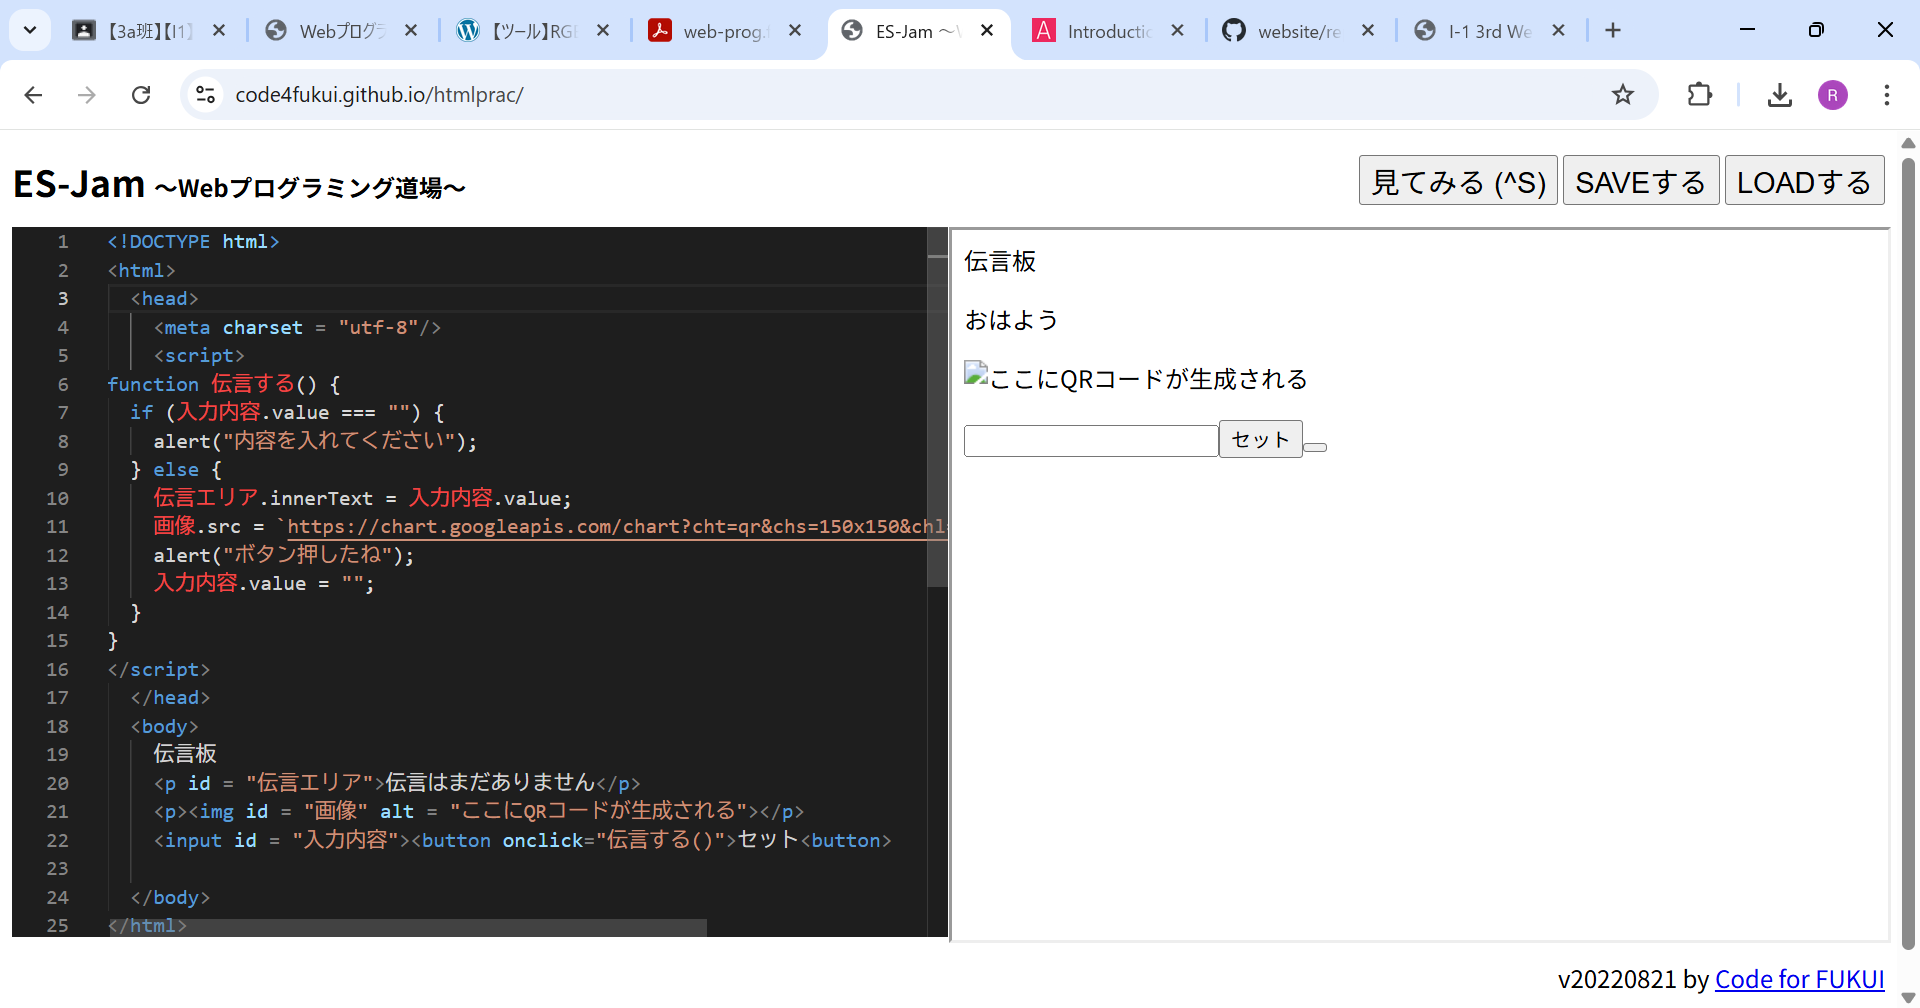
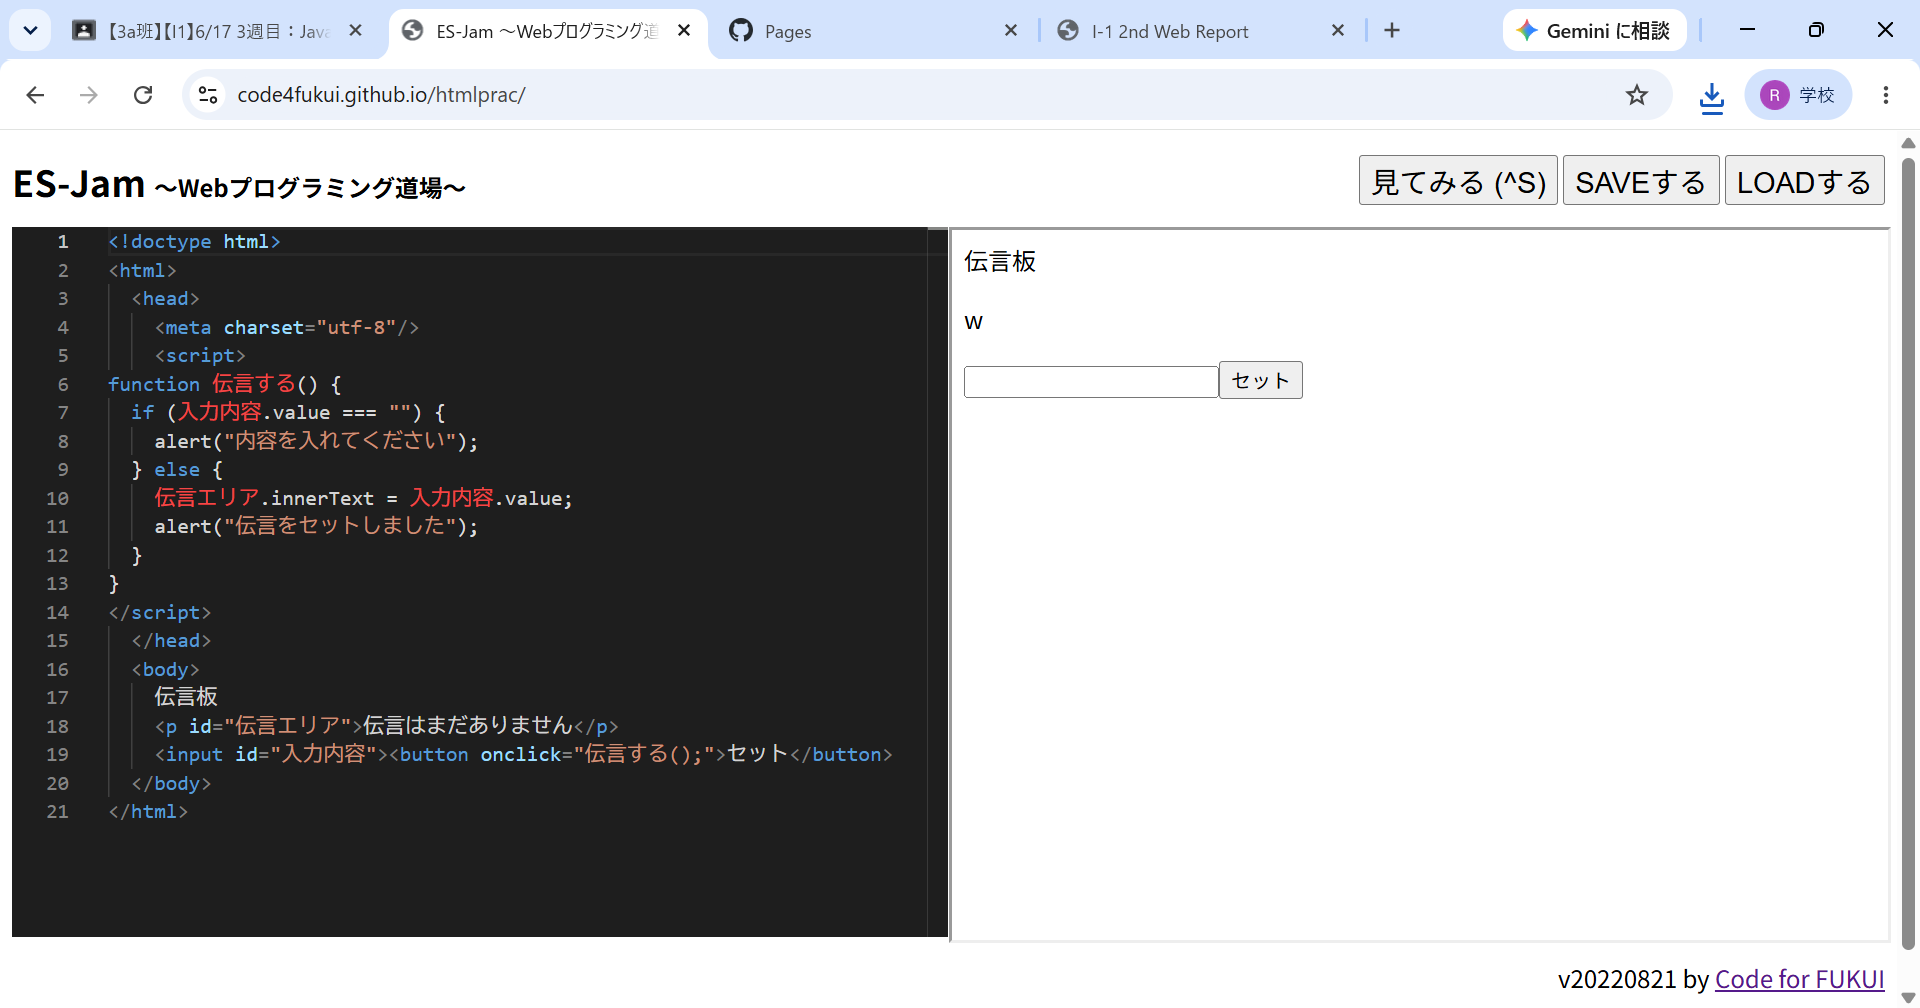
Add files via upload

diff --git a/vr.html b/vr.html
@@ -1,0 +1,14 @@
+<html>
+  <head>
+    <script src="https://aframe.io/releases/1.7.1/aframe.min.js"></script>
+  </head>
+  <body>
+    <a-scene>
+      <a-box position="-1 0.5 -3" rotation="45 45 45" color="#4CC3D9"></a-box>
+      <a-sphere position="0 1.25 -5" radius="5" color="#696363"></a-sphere>
+      <a-cylinder position="5 0.75 -6" radius="3" height="10" color="#FFC65D"></a-cylinder>
+      <a-plane position="0 0 -4" rotation="0 0 0" width="16" height="16" color="#00FF00"></a-plane>
+      <a-sky color="#00B4FF"></a-sky>
+    </a-scene>
+  </body>
+</html>

diff --git a/dengon.html b/dengon.html
@@ -1,0 +1,21 @@
+<!doctype html>
+<html>
+  <head>
+    <meta charset="utf-8"/>
+    <script>
+function 伝言する() {
+  if (入力内容.value === "") {
+    alert("内容を入れてください");
+  } else {
+    伝言エリア.innerText = 入力内容.value;
+    alert("伝言をセットしました");
+  }
+}
+</script>
+  </head>
+  <body>
+    伝言板
+    <p id="伝言エリア">伝言はまだありません</p>
+    <input id="入力内容"><button onclick="伝言する();">セット</button>
+  </body>
+</html>
